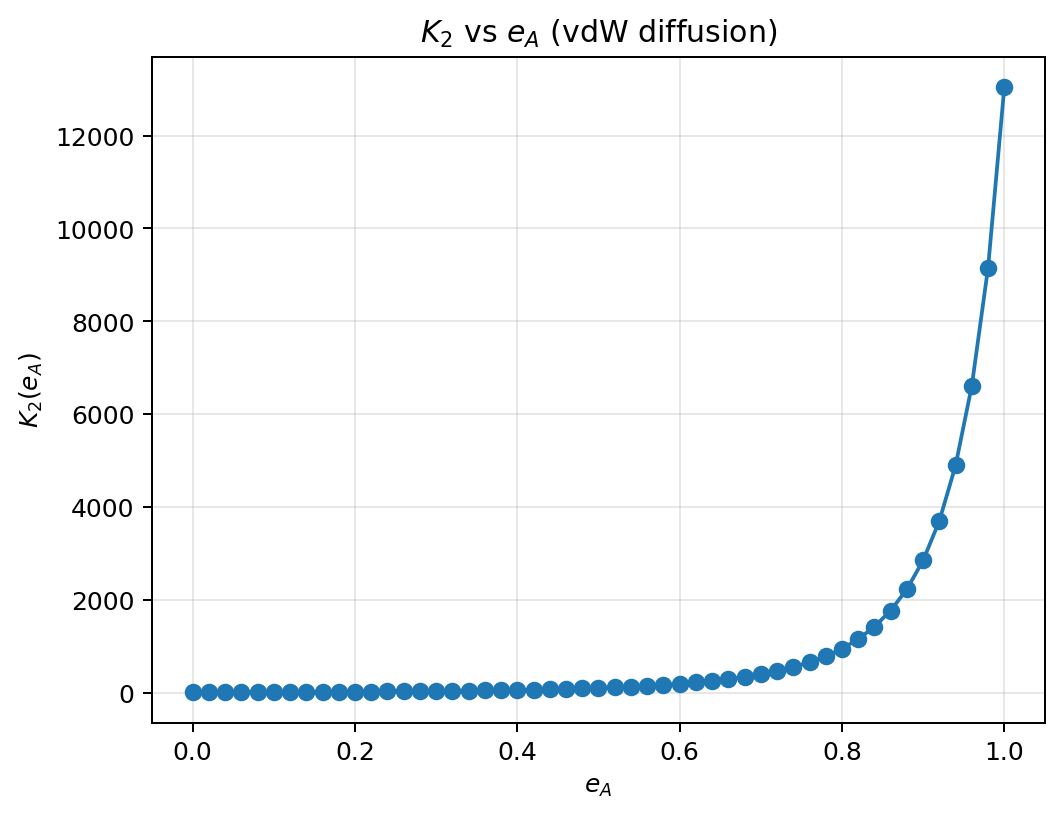
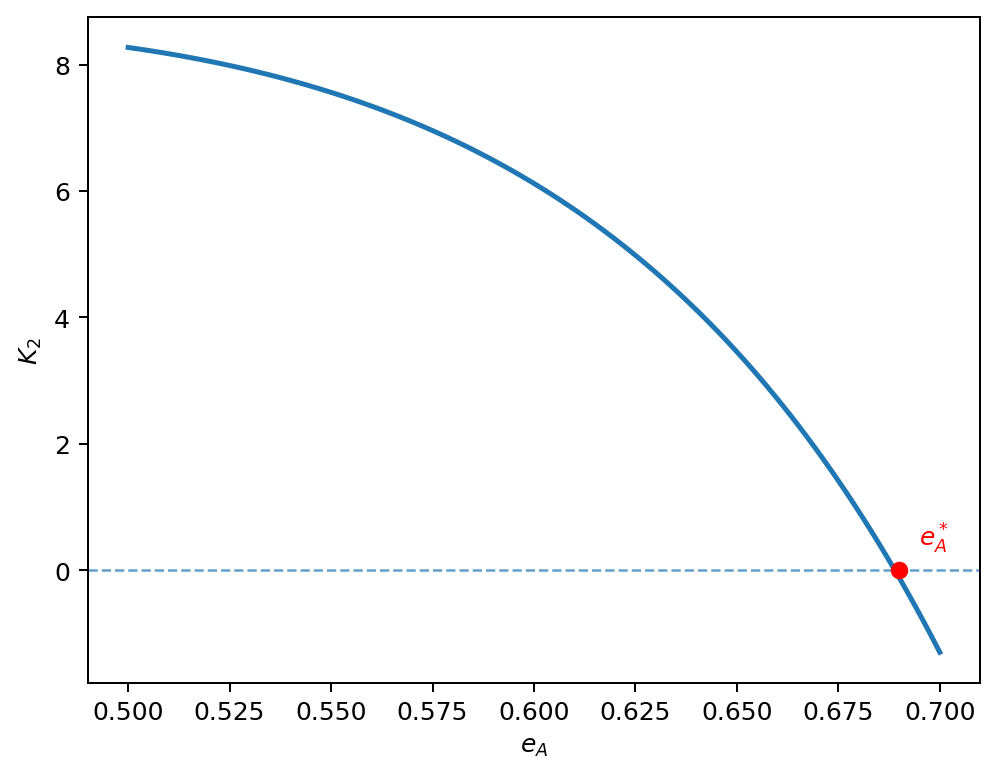
new diffusion

diff --git a/check_k2.py b/check_k2.py
@@ -1,11 +1,13 @@
 
 import numpy as np
+import math
 from typing import Dict, Any, Tuple
 from dataclasses import dataclass
 
 # Reuse your solvers
 from second_order import _Ln_inverse_neumann, _cumtrapz_from_zero
 from scipy.special import iv as I, kv as K, ivp as Ip
+from scipy.special import j1, y1, jvp, yvp
 
 # -------------------- utils --------------------
 
@@ -29,26 +31,134 @@ def _cumtrapz_to_R0(y: np.ndarray, x: np.ndarray) -> np.ndarray:
     B[:-1] = np.cumsum(areas[::-1])[::-1]
     return B
 
-# Solve (L_1 - κ^2) σ = f, regular at 0, with Dirichlet σ(R0)=target
-def _solve_sigma_modified_dirichlet(kappa: float, f: np.ndarray, r: np.ndarray, R0: float, sR0_target: float) -> Tuple[np.ndarray, float, float]:
-    rr  = np.asarray(r, dtype=float)
-    fv  = np.asarray(f, dtype=float)
-    kr  = kappa * rr
-    kr0 = kappa * R0
+# Solve (L_1 + κ^2) σ = f, regular at 0, with Dirichlet σ(R0)=target
 
-    # Dirichlet Green using ψ_D = K_1 + cD I_1 with ψ_D(R0)=0
-    cD   = - K(1, kr0) / I(1, kr0)
-    psiD = K(1, kr) + cD * I(1, kr)
+def _solve_sigma_dirichlet(
+    kappa: float,
+    f: np.ndarray,
+    r: np.ndarray,
+    R0: float,
+    sR0_target: float,
+) -> Tuple[np.ndarray, float]:
+    """
+    Solve (L_1 + kappa^2) s = f on (0, R0),
+        L_1 s = s'' + (1/r) s' - (1/r**2) s,
+    with:
+        - regularity at r = 0 (no Y1 component),
+        - Dirichlet boundary condition s(R0) = sR0_target.
 
-    Iphi = _cumtrapz_from_zero(rr * I(1, kr) * fv, rr)      # ∫_0^r s I_1(κs) f(s) ds
-    Bpsi = _cumtrapz_to_R0(rr * psiD * fv, rr)              # ∫_r^{R0} s ψ_D(κs) f(s) ds
-    sigma0 = psiD * Iphi + I(1, kr) * Bpsi                  # has σ0(R0)=0
+    Uses variation-of-parameters integral representation:
 
-    # add homogeneous to meet Dirichlet
-    phiR0 = float(I(1, kr0))
-    sigma = sigma0 + (sR0_target/phiR0) * I(1, kr)
-    sigma_p_R0 = float(_deriv_central(sigma, rr)[-1])
-    return sigma, float(sR0_target), sigma_p_R0
+        W(r) = J1(kappa r) Y1'(kappa r) - J1'(kappa r) Y1(kappa r)
+             = -2 / (pi r)
+
+        I1(r) = ∫_0^r J1(kappa rho) f(rho) / W(rho) d rho
+        I2(r) = ∫_0^r Y1(kappa rho) f(rho) / W(rho) d rho
+
+        s_p(r) = J1(kappa r) I2(r) - Y1(kappa r) I1(r)
+
+        s(r) = s_p(r) + a_reg J1(kappa r),
+        a_reg chosen so that s(R0) = sR0_target.
+
+    Also returns s'(R0), computed analytically from the same representation.
+
+    Parameters
+    ----------
+    kappa : float
+        Positive parameter (assumes kappa > 0).
+    f : np.ndarray
+        Values of the right-hand side f(r) on the grid r.
+    r : np.ndarray
+        1D grid of radii, strictly increasing, with r[0] > 0 and r[-1] = R0.
+    R0 : float
+        Outer radius; must match r[-1].
+    sR0_target : float
+        Dirichlet boundary value s(R0).
+
+    Returns
+    -------
+    s : np.ndarray
+        Approximate solution s(r) on the grid r.
+    s_prime_R0 : float
+        Approximate derivative s'(R0).
+    """
+
+    r = np.asarray(r, dtype=float)
+    f = np.asarray(f, dtype=float)
+
+    if r.ndim != 1 or f.ndim != 1:
+        raise ValueError("r and f must be 1D arrays.")
+    if r.shape != f.shape:
+        raise ValueError("r and f must have the same shape.")
+    if not np.all(np.diff(r) > 0):
+        raise ValueError("r must be strictly increasing.")
+    if not np.isclose(r[-1], R0):
+        raise ValueError("R0 must equal r[-1].")
+    if r[0] <= 0.0:
+        raise ValueError("r[0] must be > 0 (use a small positive cutoff).")
+    if kappa <= 0.0:
+        raise ValueError("kappa must be positive.")
+
+    # Fundamental solutions
+    kr = kappa * r
+    J1_vals = j1(kr)
+    Y1_vals = y1(kr)
+
+    # Derivatives w.r.t. r:
+    # d/dr J1(k r) = k * d/dx J1(x) |_{x=k r}, similarly for Y1.
+    J1p_arg = jvp(1, kr)   # derivative wrt argument
+    Y1p_arg = yvp(1, kr)
+    dJ1_dr = kappa * J1p_arg
+    dY1_dr = kappa * Y1p_arg
+
+    J1_R0 = J1_vals[-1]
+    if np.isclose(J1_R0, 0.0):
+        raise RuntimeError("J1(kappa*R0) ≈ 0; Dirichlet problem is resonant.")
+
+    # Wronskian: W(r) = -2/(pi r)
+    W_vals = -2.0 / (math.pi * r)
+
+    # Integrands for I1, I2
+    # I1(r) = ∫_0^r J1(kappa rho) f(rho) / W(rho) d rho
+    # I2(r) = ∫_0^r Y1(kappa rho) f(rho) / W(rho) d rho
+    integrand_I1 = J1_vals * f / W_vals
+    integrand_I2 = Y1_vals * f / W_vals
+
+    N = len(r)
+    I1 = np.zeros_like(r)
+    I2 = np.zeros_like(r)
+
+    # Cumulative trapezoidal integration from 0 to each r[i]
+    for i in range(1, N):
+        dr_i = r[i] - r[i - 1]
+        I1[i] = I1[i - 1] + 0.5 * dr_i * (integrand_I1[i] + integrand_I1[i - 1])
+        I2[i] = I2[i - 1] + 0.5 * dr_i * (integrand_I2[i] + integrand_I2[i - 1])
+
+    # Particular solution s_p (regular at 0)
+    s_particular = J1_vals * I2 - Y1_vals * I1
+
+    # Impose Dirichlet at R0
+    a_reg = (sR0_target - s_particular[-1]) / J1_R0
+
+    s = s_particular + a_reg * J1_vals
+
+    # Derivative of s_p:
+    # s_p = J1 I2 - Y1 I1
+    # s_p' = (dJ1/dr) I2 + J1 I2' - (dY1/dr) I1 - Y1 I1'
+    # and by construction I1'(r) = integrand_I1, I2'(r) = integrand_I2
+    s_particular_prime = (
+        dJ1_dr * I2
+        + J1_vals * integrand_I2
+        - dY1_dr * I1
+        - Y1_vals * integrand_I1
+    )
+
+    # Total derivative: s' = s_p' + a_reg * dJ1/dr
+    s_prime = s_particular_prime + a_reg * dJ1_dr
+
+    s_prime_R0 = float(s_prime[-1])
+
+    return s, s_prime_R0
 
 # -------------------- forcings with A/B weighting like build_sigma_m --------------------
 
@@ -163,7 +273,7 @@ def make_forcings_ms31(F, SO, D, Dp, Dpp, K2: float) -> K2LoT:
     q31 = (K2 * m0 / D0) * g_r - f / D0
 
     # Dirichlet target for σ31 and bracket for m31' BC
-    sR0_target = - (rho20 + 0.5*rho22) * float(F.s11p(R0))
+    sR0_target = (rho20 + 0.5*rho22) * float(F.s11p(R0))
     bracket_c  = (rho20 + 0.5*rho22) * float(F.m11pp(R0)) + (rho22 / (R0**2)) * float(F.m11(R0))
     bracket_s  = (rho20 + 0.5*rho22) * float(F.s11pp(R0)) + (rho22 / (R0**2)) * float(F.s11(R0)) + K2/K0 * F.s11p(R0)
 
@@ -188,42 +298,42 @@ def check_k2_consistent(F, SO, D, Dp, Dpp, K2: float) -> Dict[str, Any]:
     r = lot.r
 
     # Step 1: u = L1^{-1} q31 (regular; we will add A r from BC)
-    u_reg = _Ln_inverse_neumann(1, lambda rr: np.interp(rr, r, lot.q31), r, R0, neuman_bc= -lot.bracket_c+K0*m0/D0*lot.bracket_s)
+    q_reg = _Ln_inverse_neumann(1, lambda rr: np.interp(rr, r, lot.q31), r, R0, neuman_bc= -lot.bracket_c+K0*m0/D0*lot.bracket_s)
 
-    # Step 2: (L1 - κ^2) σ = (P/Z) u, with κ^2 = (1 + (P K0 m0)/D0) / Z
-    kappa2 = (1.0 + (P*K0*m0)/D0) / Z
+    # Step 2: (L1 + κ^2) σ = -(P/Z) q, with κ^2 = (1 + (P K0 m0)/D0) / Z
+    kappa2 = (-1.0 + (P*K0*m0)/D0) / Z
     if kappa2 <= 0:
         raise RuntimeError(f"κ^2 must be positive; got {kappa2}")
     kappa = float(np.sqrt(kappa2))
 
     # σ with zero Dirichlet at R0 for u_reg, and for u_hom = r
-    sig_part, _, sigp_part_R0 = _solve_sigma_modified_dirichlet(kappa, (P/Z)*u_reg, r, R0, sR0_target=0.0)
-    sig_hom,  _, sigp_hom_R0  = _solve_sigma_modified_dirichlet(kappa, (P/Z)*r,     r, R0, sR0_target=0.0)
+    sigma31, sig31p_R0 = _solve_sigma_dirichlet(kappa, -(P/Z)*q_reg, r, R0, sR0_target=-lot.sR0_target)
+    #sig_hom,  _, sigp_hom_R0  = _solve_sigma_modified_dirichlet(kappa, (P/Z)*r,     r, R0, sR0_target=0.0)
 
     # Add Dirichlet lift σ_D to hit σ(R0)=sR0_target
-    phiR0   = float(I(1, kappa*R0))
-    sigp_lift_R0 = (kappa * float(Ip(1, kappa*R0))) * (lot.sR0_target / phiR0)
+    #phiR0   = float(I(1, kappa*R0))
+    #sigp_lift_R0 = (kappa * float(Ip(1, kappa*R0))) * (lot.sR0_target / phiR0)
 
     # choose A from (ms31_c): m31' = u' + (K0 m0 / D0) σ' ⇒ m31'(R0)+bracket_c=0
-    up_reg_R0 = float(_deriv_central(u_reg, r)[-1])
-    coeff_A = 1.0 + (K0*m0/D0) * sigp_hom_R0
-    rhs     = - ( up_reg_R0 + (K0*m0/D0)*( sigp_part_R0 + sigp_lift_R0 ) + lot.bracket_c )
-    A = rhs / coeff_A
+    #up_reg_R0 = float(_deriv_central(q_reg, r)[-1])
+    #coeff_A = 1.0 + (K0*m0/D0) * sigp_hom_R0
+    #rhs     = - ( up_reg_R0 + (K0*m0/D0)*( sigp_part_R0 + sigp_lift_R0 ) + lot.bracket_c )
+    #A = rhs / coeff_A
 
     # Build fields
-    u_tot   = u_reg + A * r
-    sigma31 = sig_part + A * sig_hom + (lot.sR0_target/phiR0) * I(1, kappa*r)
-    m31     = u_tot + (K0*m0/D0) * sigma31
+    #u_tot   = q_reg + A * r
+    #sigma31 = sig_part # + A * sig_hom + (lot.sR0_target/phiR0) * I(1, kappa*r)
+    #m31     = u_tot + (K0*m0/D0) * sigma31
 
     # Compatibility residual (ms31_e)
-    s31p_R0 = float(_deriv_central(sigma31, r)[-1])
+    #s31p_R0 = float(_deriv_central(sigma31, r)[-1])
    
-    res = K2*float(F.s11p(R0)) + K0*( s31p_R0 + lot.bracket_s)
+    res = K2*float(F.s11p(R0)) + K0*( sig31p_R0 + lot.bracket_s)
 
     return dict(
         residual_bc=float(abs(res)),
         signed_residual_bc=float(res),
-        A=float(A),
+        #A=float(A),
         sigma_R0=float(sigma31[-1]),
-        sigma_p_R0=float(s31p_R0),
+        sigma_p_R0=float(sig31p_R0),
     )

diff --git a/compute_Ai.py b/compute_Ai.py
@@ -249,23 +249,61 @@ def K2_of_eA(F, SO, eA_values: Iterable[float], m_inf: float = 10.0) -> Tuple[np
 
     return eA_values, np.array(K2_list)
 
-def plot_K2_of_eA(F, SO, eA_values: Iterable[float], m_inf: float = 10.0,
+
+
+def plot_K2_of_eA(F, SO, eA_values, m_inf: float = 10.0,
                   *, save: bool = False, filename: str = "K2_of_eA.png"):
     """
     Plot K2 as a function of e_A for the vdW diffusion.
+    Solid line, dashed y=0 line, and a red point labeled e_A^* at K2=0 (or closest).
+    No background grid.
     """
-
     eA, K2 = K2_of_eA(F, SO, eA_values, m_inf=m_inf)
+
+    eA = np.asarray(eA, dtype=float)
+    K2 = np.asarray(K2, dtype=float)
+
+    # --- find e_A^* where K2(e_A) = 0 ---
+    eA_star, K2_star = None, None
+    zero_idx = np.where(np.isclose(K2, 0.0, atol=1e-12, rtol=0.0))[0]
+    if zero_idx.size > 0:
+        i = int(zero_idx[0])
+        eA_star, K2_star = float(eA[i]), float(K2[i])
+    else:
+        s = np.sign(K2)
+        change = np.where(s[:-1] * s[1:] < 0)[0]
+        if change.size > 0:
+            i = int(change[0])
+            eA_star = float(np.interp(0.0, [K2[i], K2[i+1]], [eA[i], eA[i+1]]))
+            K2_star = 0.0
+        else:
+            i = int(np.argmin(np.abs(K2)))
+            eA_star, K2_star = float(eA[i]), float(K2[i])
+
     plt.figure()
-    plt.plot(eA, K2, marker='o')
+    plt.plot(eA, K2, linestyle='-', linewidth=2)
+    plt.axhline(0.0, linestyle='--', linewidth=1, alpha=0.7)
+
+    if eA_star is not None:
+        plt.scatter([eA_star], [K2_star], color='red', zorder=5)
+        plt.annotate(r"$e_A^*$",
+                     xy=(eA_star, K2_star),
+                     xytext=(8, 10),
+                     textcoords="offset points",
+                     color='red')
+
     plt.xlabel(r"$e_A$")
-    plt.ylabel(r"$K_2(e_A)$")
-    plt.title(r"$K_2$ vs $e_A$ (vdW diffusion)")
-    plt.grid(True, alpha=0.3)
+    plt.ylabel(r"$K_2$")
+    #plt.title(r"$K_2$ vs $e_A$ (vdW diffusion)")
+
+    # remove background grid
+    plt.grid(False)
+
     if save:
         plt.savefig(filename, dpi=180, bbox_inches='tight')
     else:
         plt.show()
+
     return eA, K2
 
 

diff --git a/main.py b/main.py
@@ -11,8 +11,9 @@ if __name__ == "__main__":
     F = build_first_order(P=P, Z=Z, gamma=gamma)
     SO = compute_second_order(F)
 
-    print(check_second_order_pde_discrete(F,SO)["loss"])
+    #print(check_second_order_pde_discrete(F,SO)["loss"])
 
+    print("K0 ", F.Khat0)
 
     # diffusion model and K
     D, Dp, Dpp = D_vdW(e_a=0.0, m_inf=10.0)  # or your own D(m)
@@ -22,6 +23,11 @@ if __name__ == "__main__":
     k2 = K2_from_Ai(As, D(F.m0),Dp(F.m0), Dpp(F.m0))
     k2 = K2_from_Ai(As, 1,0,0)
     print(check_k2_consistent(F, SO, D, Dp, Dpp, k2))
+
+
+    plot_K2_of_eA(F, SO, np.linspace(0.5, 0.7, 100),
+              save=True)
+
     #D0 = D_of_m(F.m0)                            # D(m0)
 
     # compute arrays and plot
